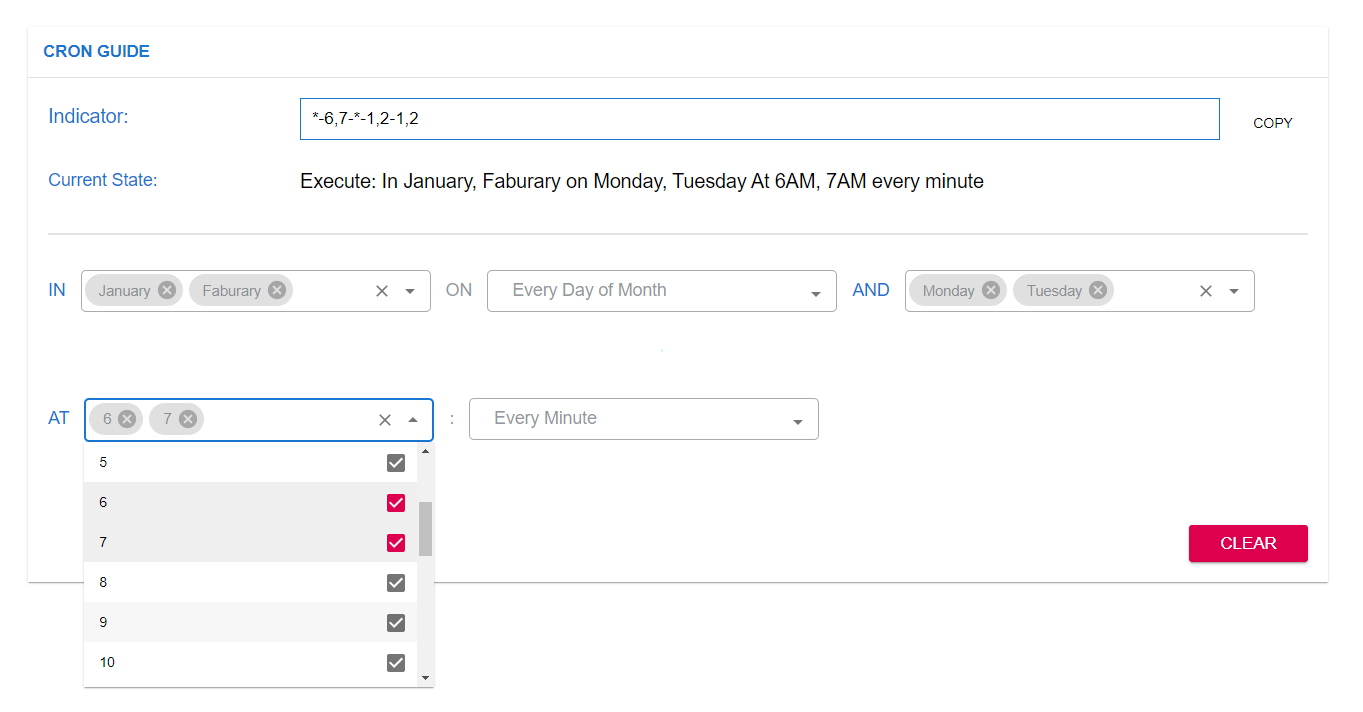
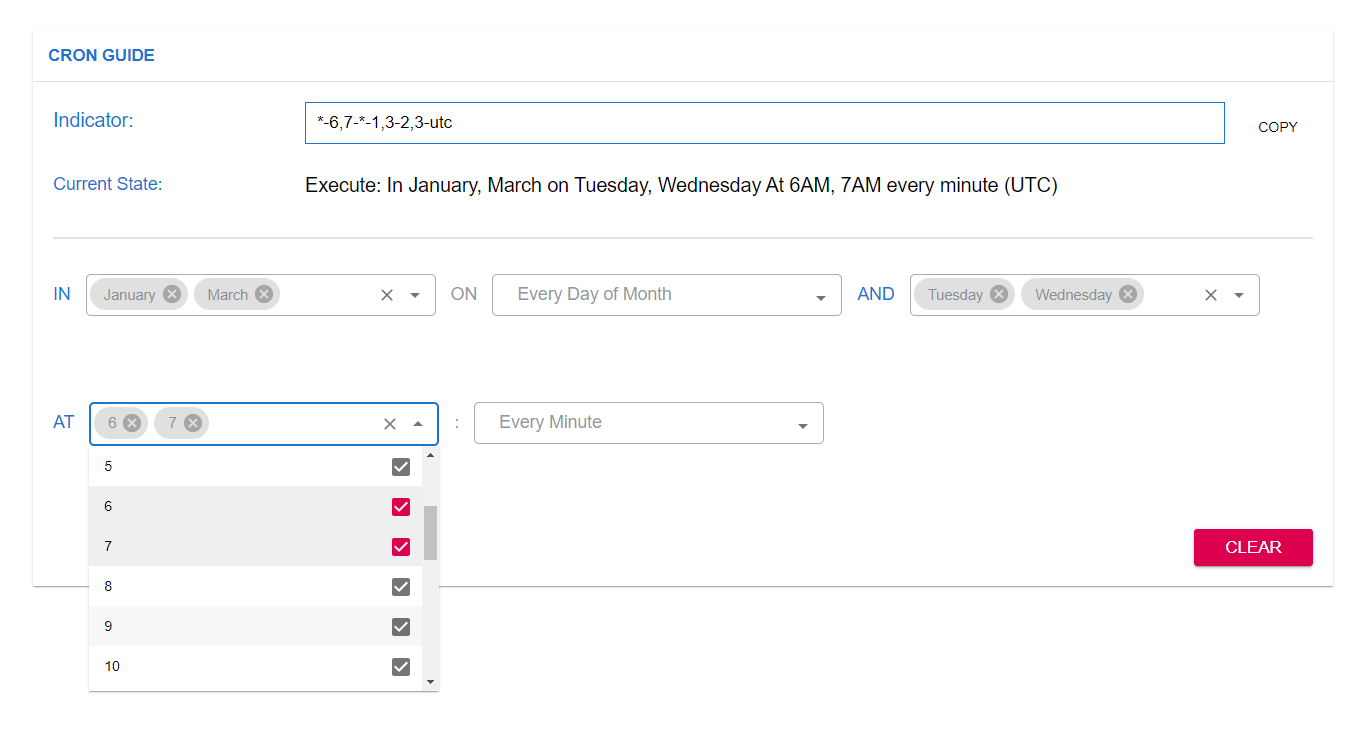
ui bug fixes -- no utc indicator and removed consoles

diff --git a/demo/src/App.js b/demo/src/App.js
@@ -1,12 +1,11 @@
 import React from 'react'
-import { CronGuide,BasicCron } from 'reactjs-crontab'
+import { CronGuide, BasicCron } from 'reactjs-crontab'
 import 'reactjs-crontab/dist/index.css'
 // simply import CronGuide and css and that's all.
 
 const App = () => {
   return (
     <div>
-      <BasicCron />
       <CronGuide />
 
     </div>
